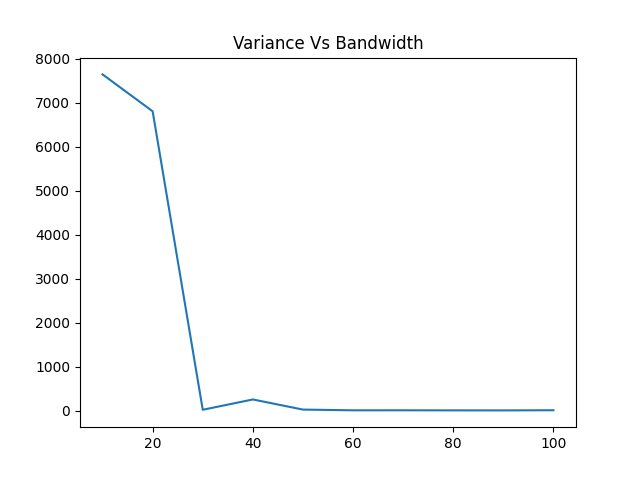
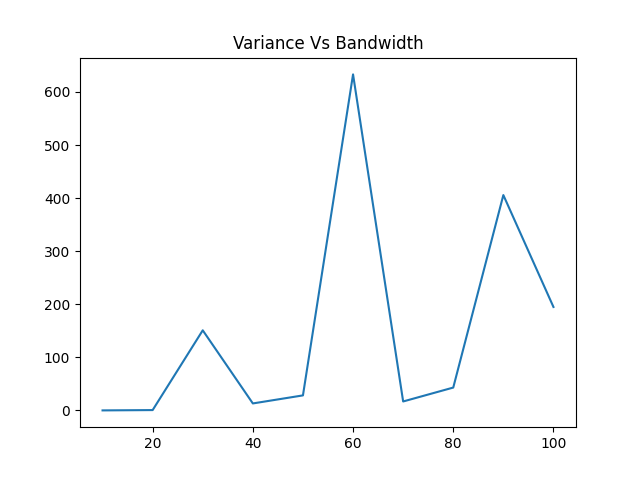
Values for normal conditions

diff --git a/real_world-bw-limited.py b/real_world-bw-limited.py
@@ -24,8 +24,8 @@ links = [(("s1", "10.0.1.2"), ("r1", "10.0.1.4"), (200, 12500, 1)),
          (("enb2", "10.0.4.2"), ("ue2", "10.0.4.4"), (120, 12500, 1)),
          (("enb3", "10.0.5.2"), ("ue3", "10.0.5.4"), (0.0001, 12500, 1)),
          (("enb3", "10.0.6.2"), ("ue4", "10.0.6.4"), (120, 12500, 1)),
-         (("ue4", "10.0.7.2"), ("extra", "10.0.7.4"), (120, 12500, 1)),
+         (("ue4", "10.0.7.2"), ("extra", "10.0.7.4"), (40, 12500, 1)),
          (("r1", "10.0.8.2"), ("enb1", "10.0.8.4"), (150, 12500, 1)),
          (("r1", "10.0.9.2"), ("enb2", "10.0.9.4"), (150, 12500, 1)),
          (("enb2", "10.0.10.2"), ("ue3", "10.0.10.4"), (120, 12500, 1)),
-         (("s1", "10.0.11.2"), ("r2", "10.0.11.4"), (40, 12500, 1))]
+         (("s1", "10.0.11.2"), ("r2", "10.0.11.4"), (200, 12500, 1))]
